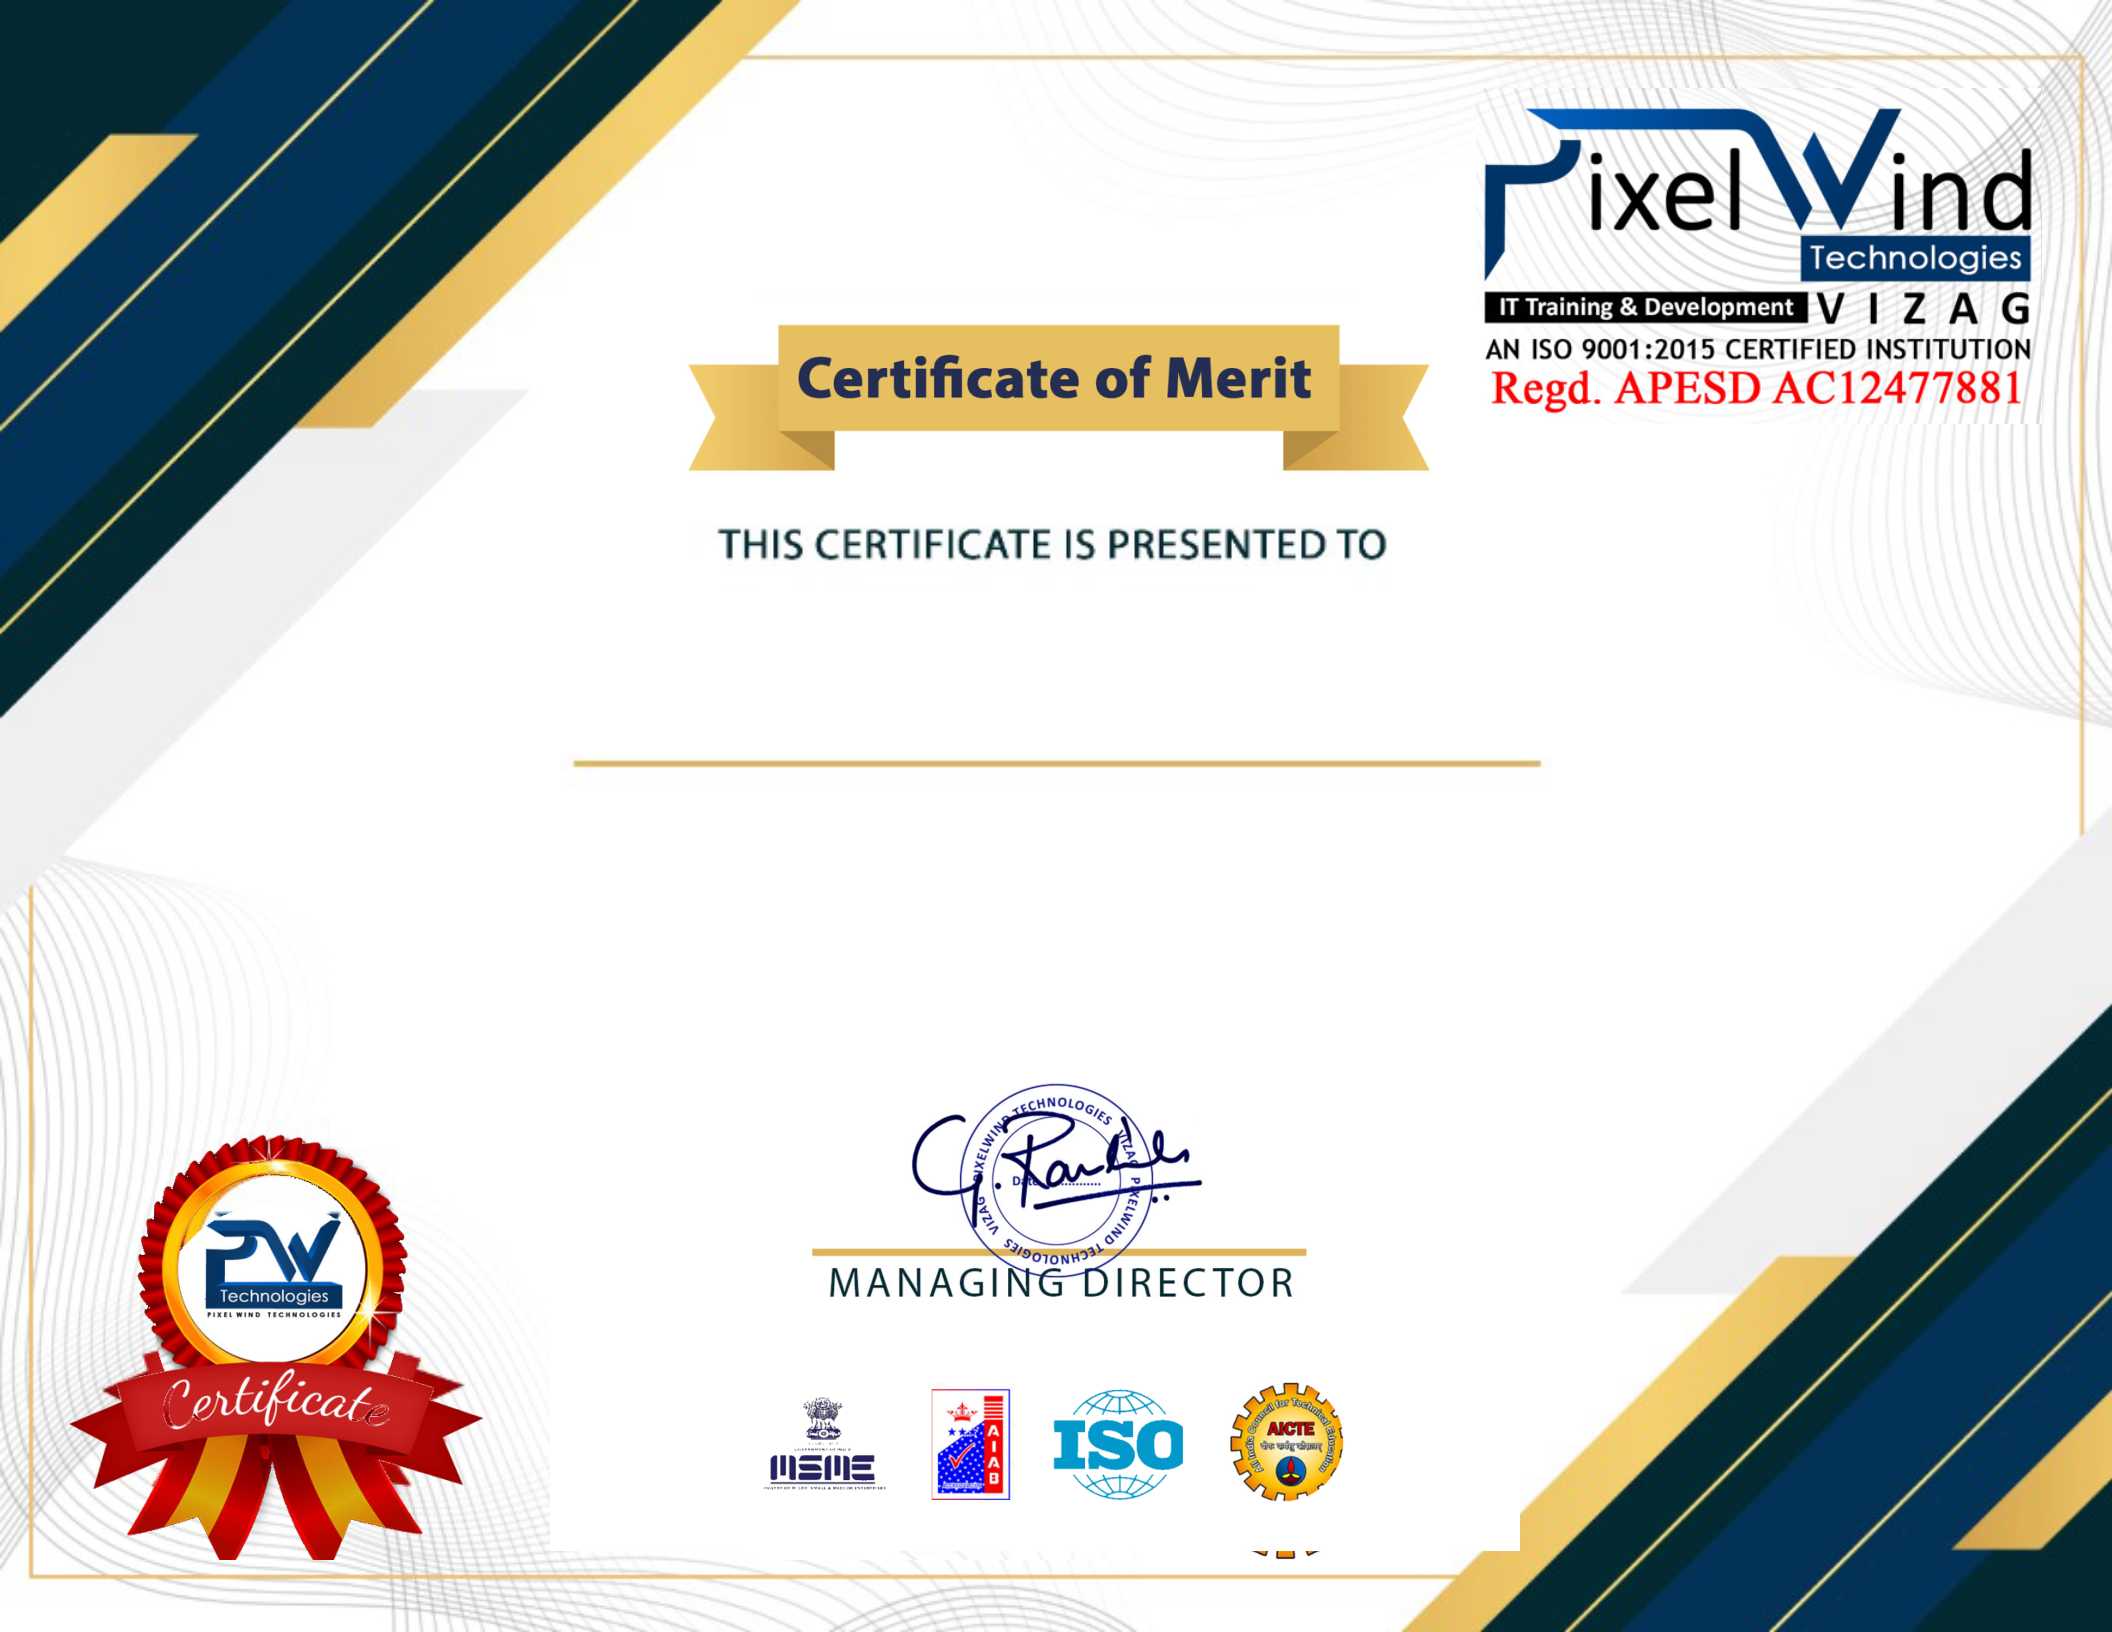
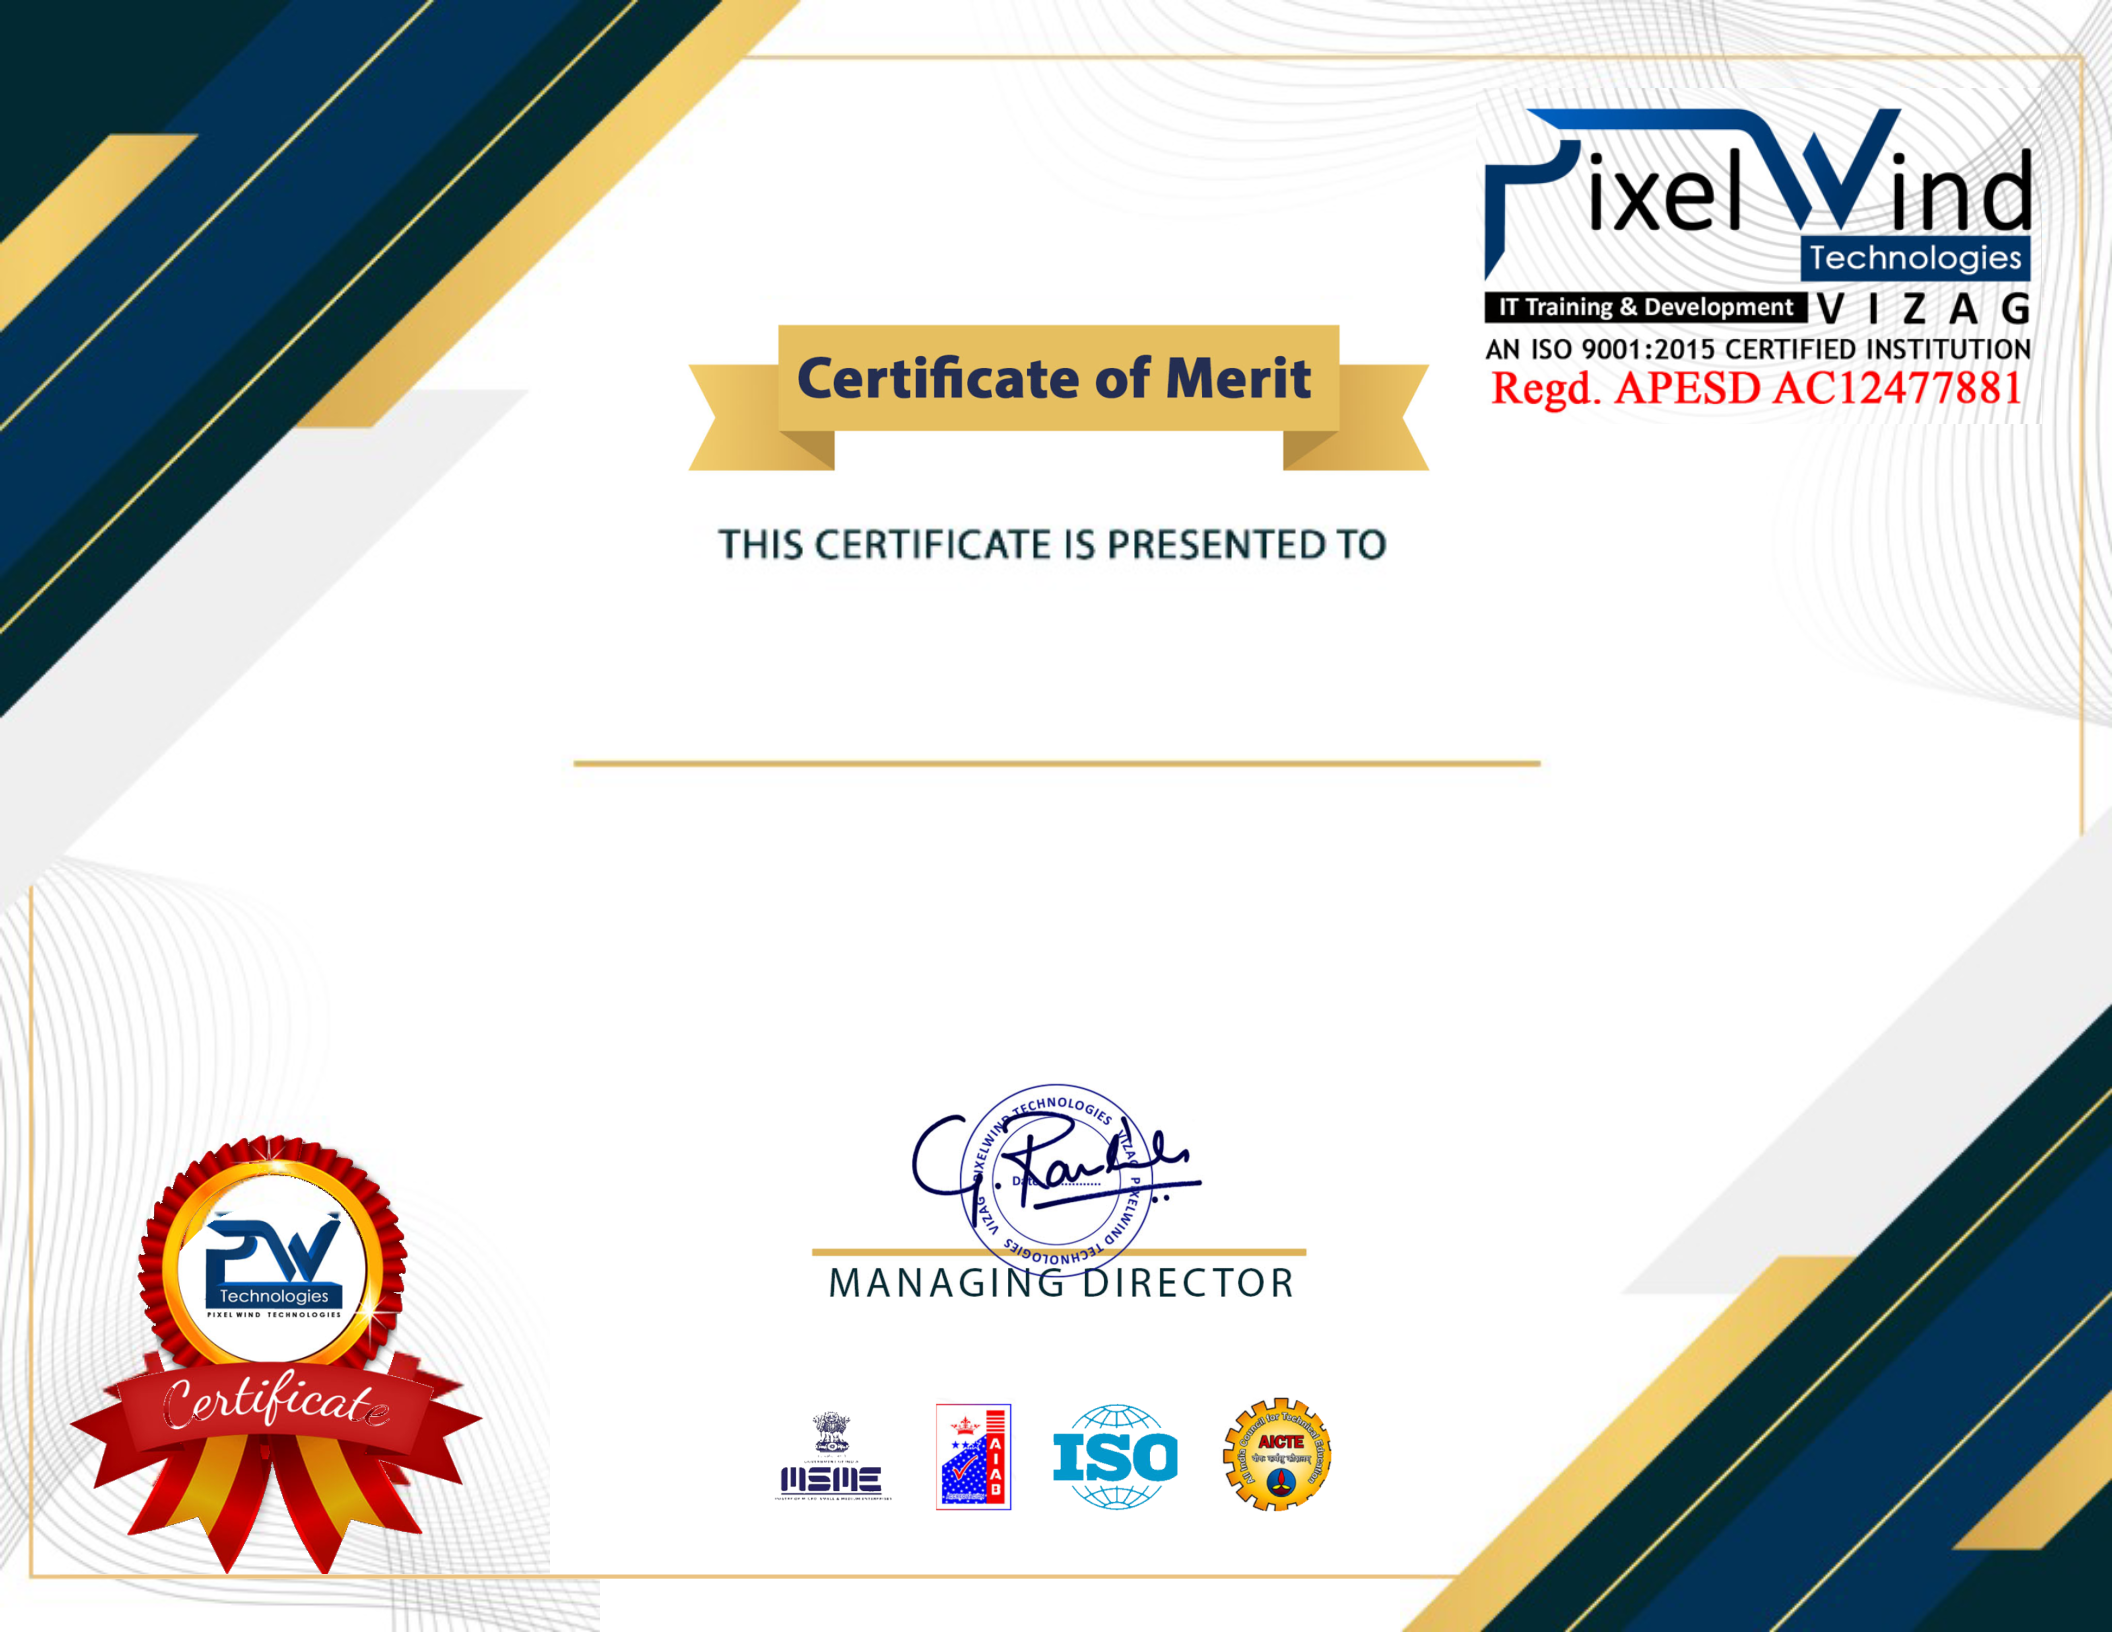
fix: remove ghost AICTE gear artifact, clean bottom yellow line and optimize internship ID spacing

diff --git a/src/pages/CertificateGenerator.tsx b/src/pages/CertificateGenerator.tsx
@@ -81,7 +81,7 @@ const CertificateContent: React.FC<{ formData: any, showQR: boolean }> = ({ form
         </div>
         
         {/* Bottom internship ID — sits cleanly in the gap between MANAGING DIRECTOR and accreditation logos */}
-        <div className="absolute top-[666px] left-0 right-0 text-center text-[11px] font-bold tracking-wider z-20" style={{ color: '#dc2626', fontFamily: 'sans-serif' }}>
+        <div className="absolute top-[660px] left-0 right-0 text-center text-[11px] font-bold tracking-wider z-20" style={{ color: '#dc2626', fontFamily: 'sans-serif' }}>
           {formData.internship_no}
         </div>
         
@@ -330,8 +330,8 @@ const CertificateGenerator: React.FC = () => {
         { text: '".', font: 'italic' }
       ], 484 + 13.5, 18);
 
-      // Bottom internship ID — top: 666px => y = 666 + 8.25
-      drawCenterText(formData.internship_no, 666 + 8.25, 11, 'bold', '#dc2626');
+      // Bottom internship ID — top: 660px => y = 660 + 8.25
+      drawCenterText(formData.internship_no, 660 + 8.25, 11, 'bold', '#dc2626');
 
       // 5. Inject Vector QR Code
       if (showQR && printRef.current) {

diff --git a/src/components/CertificateModal.tsx b/src/components/CertificateModal.tsx
@@ -76,7 +76,7 @@ const CertificateContent: React.FC<{ formData: any, showQR: boolean }> = ({ form
           ({formData.branch}) & his Performance Grade "<span className="font-bold not-italic">{formData.grade}</span>".
         </div>
         
-        <div className="absolute top-[666px] left-0 right-0 text-center text-[11px] font-bold text-red-600 tracking-wider z-20">
+        <div className="absolute top-[660px] left-0 right-0 text-center text-[11px] font-bold text-red-600 tracking-wider z-20">
           {formData.internship_no}
         </div>
         
